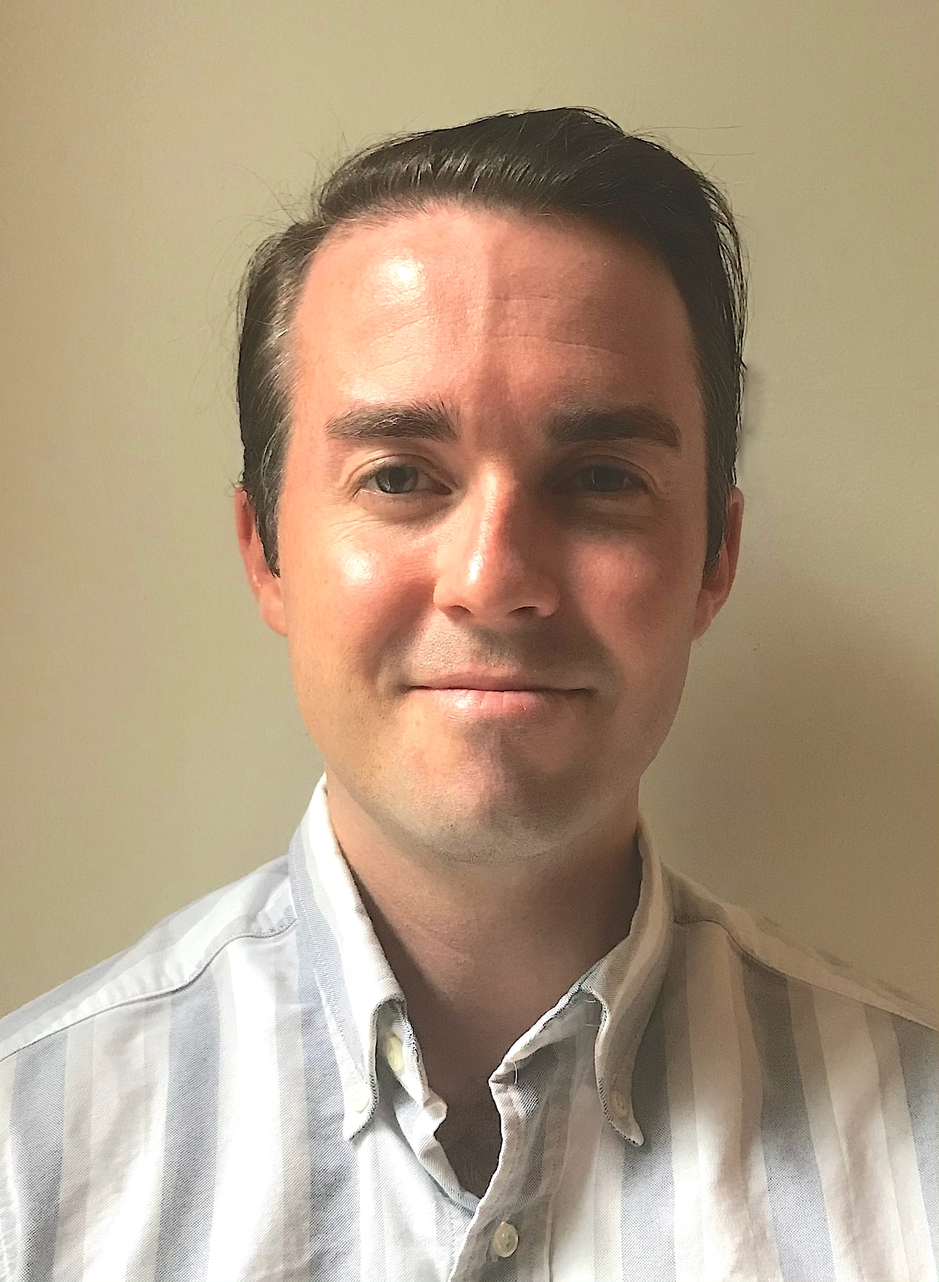
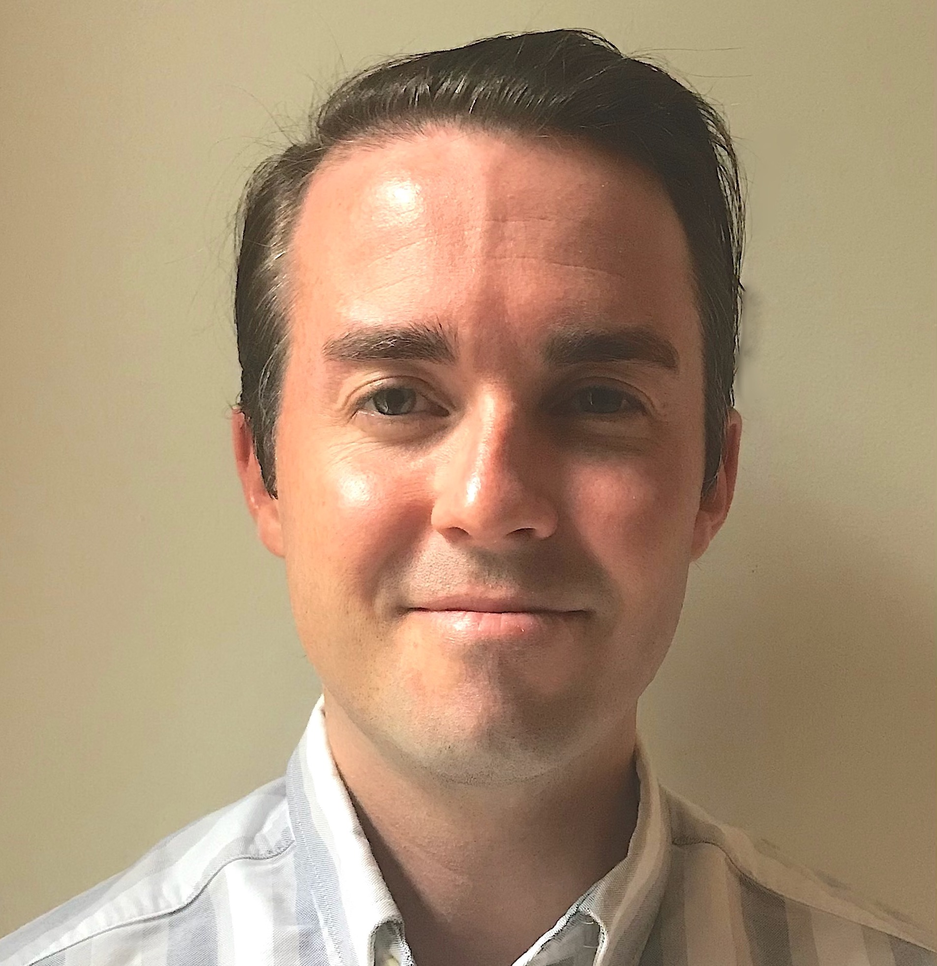
latest css

diff --git a/src/pages/about.js b/src/pages/about.js
@@ -5,9 +5,21 @@ import Layout from '../components/layout'
 const AboutPage = () => (
   <Layout>
     <main>
-      <p>I'm Henry, A musician and software developer</p>
+      <p>I'm Henry, A musician and software developer.</p>
       <p>
-      Find me on <a href="https://twitter.com/@laszlo_jamf" target="_blank" rel="noopener noreferrer">Twitter!</a>
+      After graduating from NYU with a degree in philosophy, I started making music with my band,&nbsp;
+      <a href="https://personalspaceband.bandcamp.com/" target="_blank" rel="noopener noreferrer">Personal Space</a>
+      , while also working in the service industry. I found I enjoyed making craft cocktails and working as part of a team in a fast-paced environment, but eventually I came to miss the intellectual rigor of philosophy.
+      </p>
+      <p>
+      I discovered coding through friends, and found it combined my love for logic with the hands-on satisfaction that comes from building something that works. After graduating from the&nbsp;
+      <a href="https://flatironschool.com/career-courses/coding-bootcamp"
+      target="_blank" rel="noopener noreferrer">Flatiron School's</a> Immersive Web Development program, I'm ready to refine and build my skills while contributing to a team.
+      </p>
+      <p>
+      When I'm not coding or making music, I'm usually reading or doing a crossword.
+      Take a look at what's currently on my&nbsp;
+      <a href="https://www.goodreads.com/review/list/103828657-henry-koehler?shelf=currently-reading" target="_blank" rel="noopener noreferrer">bookshelf!</a>
        </p>
     </main>
   </Layout>

diff --git a/src/components/header.js b/src/components/header.js
@@ -13,8 +13,8 @@ const Header = ({ siteTitle }) => {
           id
           childImageSharp {
             fixed(
-              width: 150
-              height: 200
+              width: 260
+              height: 265
             ) {
               ...GatsbyImageSharpFixed
             }
@@ -36,14 +36,6 @@ const Header = ({ siteTitle }) => {
         </h1>
       <nav>
         <ul className={headerStyles.navList}>
-          <li>
-            <Link
-            className={headerStyles.navItem}
-            activeClassName={headerStyles.activeNavItem}
-            to="/">
-            Home
-            </Link>
-          </li>
           <li>
             <Link
             className={headerStyles.navItem}
@@ -76,15 +68,23 @@ const Header = ({ siteTitle }) => {
             Contact
             </Link>
           </li>
+          <li>
+            <Link
+            className={headerStyles.navItem}
+            activeClassName={headerStyles.activeNavItem}
+            to="/resume">
+            Resume
+            </Link>
+          </li>
         </ul>
       </nav>
       </div>
-      <div className={headerStyles.headshot}>
-        <Img
-        fixed={data.image.childImageSharp.fixed}
-        alt="headshot"
-        />
-      </div>
+        <Link className={headerStyles.headshot} to="/">
+          <Img
+          fixed={data.image.childImageSharp.fixed}
+          alt="headshot"
+          />
+        </Link>
     </header>
   )
 }

diff --git a/src/components/header.module.css b/src/components/header.module.css
@@ -12,38 +12,43 @@
 }
 
 .title {
+  font-family: 'Grenze', serif;
   color: coral;
-  font-size: 4.75rem;
+  font-size: 6rem;
   text-decoration: none;
-  text-shadow: 0px 10px 30px -5px rgba(0, 0, 0, 0.3);
+  text-shadow: 0px 10px 30px rgba(0, 0, 0, 0.2);
 }
 
 .title:hover{
-  text-shadow: 0px 10px 30px -5px rgba(0, 0, 0, 0.3);
+  text-shadow: 0px 10px 30px rgba(0, 0, 0, 0.3);
 }
 
-
 .headshot {
+  background: white;
   border-style: solid;
-  border-width: 3px;
-  border-color: coral;
+  border-width: 4px;
+  border-color: white;
   box-shadow: 0px 10px 30px -5px rgba(0, 0, 0, 0.3);
-  padding: .5rem;
+  padding: .85rem .5rem 3.5rem;
+}
+
+.headshot:hover{
+  box-shadow: 0px 30px 40px -10px rgba(0, 0, 0, 0.35);
 }
 
 .nav-list {
-  align-self: flex-end;
   display: flex;
+  align-self: flex-end;
   list-style-type: none;
-  padding: 0 0 0 2.75rem;
-
+  padding: 0 0 0 3.5rem;
 }
 
 .nav-item {
   color: coral;
-  font-size: 1rem;
-  margin-right: 1.3rem;
+  font-size: .9rem;
+  margin-right: 4.2rem;
   text-decoration: none;
+  text-shadow: 0px 10px 30px rgba(0, 0, 0, 0.3);
 }
 
 .nav-item:hover {

diff --git a/src/pages/contact.js b/src/pages/contact.js
@@ -2,13 +2,37 @@ import React from 'react'
 
 import Layout from '../components/layout'
 
+import contactStyles from './contact.module.css'
+
 const ContactPage = () => {
 
   return (
     <Layout>
+    <div className={contactStyles.container}>
       <p>
-      Contact Page
+      Let's build something together!
       </p>
+      <p>
+      Contact me via:
+      </p>
+      <ul className={contactStyles.contactList}>
+        <li>
+        <a href="mailto:henryk1229@gmail.com"
+        alt="gmail"
+        target="_blank" rel="noopener noreferrer">Gmail</a>
+        </li>
+        <li>
+        <a href="https://www.linkedin.com/in/henry-koehler-a73066176/" alt="linkedin"
+        target="_blank" rel="noopener noreferrer">LinkedIn</a>
+        </li>
+        <li>
+        <a href="https://twitter.com/@laszlo_jamf" alt="twitter"
+        target="_blank" rel="noopener noreferrer">Twitter</a>
+        </li>
+
+      </ul>
+
+    </div>
     </Layout>
   )
 }

diff --git a/src/pages/blog.js b/src/pages/blog.js
@@ -39,8 +39,8 @@ const BlogPage =  () => {
   return (
     <Layout>
       <p>
-      I'm currently migrating my blog posts onto the site.
-      In the meantime, check out my writing on &nbsp; 
+      I'm currently migrating my blog posts onto this site.
+      In the meantime, please check out my writing on &nbsp;
       <a href="https://medium.com/@henryk1229" target="_blank" rel="noopener noreferrer">Medium</a>.
       </p>
     </Layout>

diff --git a/gatsby-config.js b/gatsby-config.js
@@ -51,6 +51,16 @@ module.exports = {
       }
     },
     `gatsby-transformer-sharp`,
+    {
+      resolve: `gatsby-plugin-prefetch-google-fonts`,
+      options: {
+        fonts: [
+          {
+            family: `Grenze`,
+          },
+        ],
+      },
+    }
     // this (optional) plugin enables Progressive Web App + Offline functionality
     // To learn more, visit: https://gatsby.dev/offline
     // `gatsby-plugin-offline`,

diff --git a/src/components/layout.js b/src/components/layout.js
@@ -19,7 +19,7 @@ const Layout = ({ children }) => {
     }
   `)
 
-const animation = useSpring({ opacity: 1, from: { opacity: 0 } });
+const animation = useSpring({ opacity: 1, from: { opacity: 0 }, delay: 400 });
 
   return (
     <div className={layoutStyles.container}>

diff --git a/src/pages/resume.js b/src/pages/resume.js
@@ -1,0 +1,16 @@
+import React from 'react'
+
+import Layout from '../components/layout'
+
+const ResumePage = () => {
+
+  return (
+    <Layout>
+      <p>
+      Resume
+      </p>
+    </Layout>
+  )
+}
+
+export default ResumePage

diff --git a/src/pages/index.js b/src/pages/index.js
@@ -2,6 +2,7 @@ import React from "react"
 // import { Link } from "gatsby"
 
 import Layout from "../components/layout"
+import About from './about'
 
 import SEO from "../components/seo"
 

diff --git a/src/components/layout.module.css b/src/components/layout.module.css
@@ -1,6 +1,6 @@
 .container {
   margin: 0 auto;
-  max-width: 840px;
+  max-width: 960px;
   padding: 1rem;
   display: flex;
   flex-direction: column;

diff --git a/src/pages/contact.module.css b/src/pages/contact.module.css
@@ -1,0 +1,7 @@
+.contact {
+  text-decoration: none;
+}
+
+.contact-list {
+  list-style-type: none;
+}
